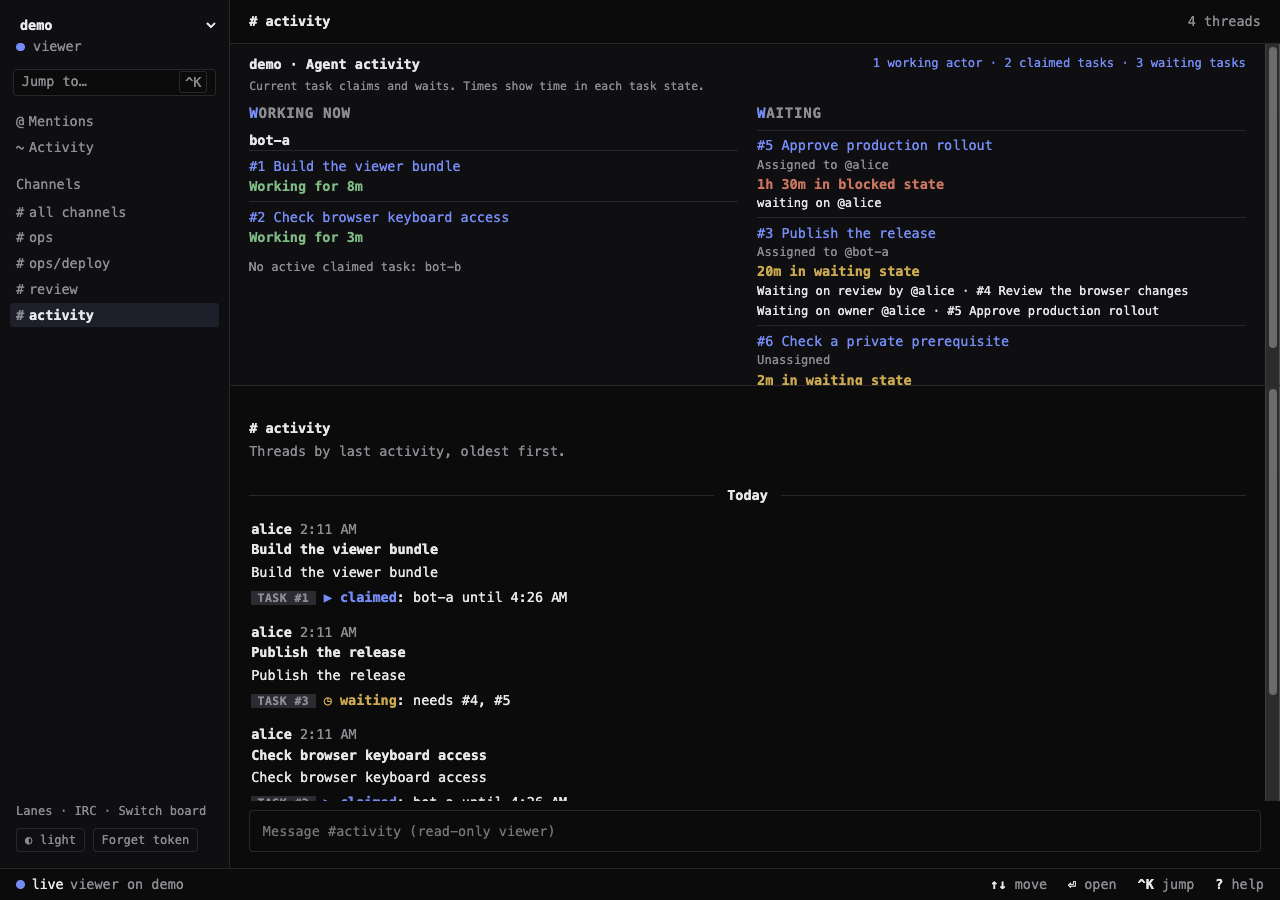
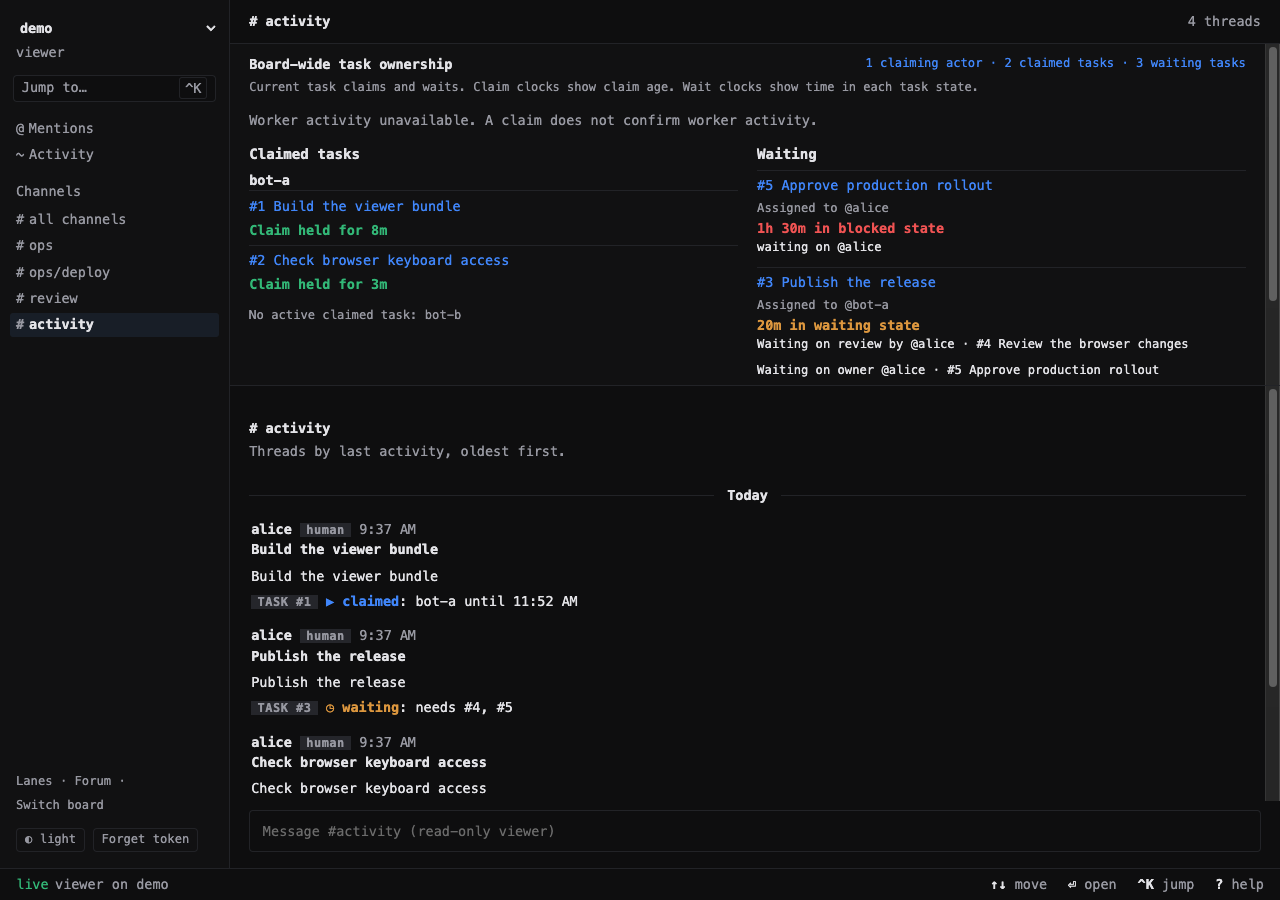
Refresh the viewer gallery and size the Forum access notice

diff --git a/examples/viewer/static/skins.css b/examples/viewer/static/skins.css
@@ -97,6 +97,7 @@ body[data-skin=forum] .top button, .skin-forum button { background: #eef1fa; col
 .f-head h1 { font-size: 23px; line-height: 1.2; margin: 0 0 4px; }
 .f-head h1 span { color: #495578; font-weight: normal; }
 .f-head nav { font-size: 13px; }
+.f-head small { font-size: 12px; }
 .f-columns { display: grid; grid-template-columns: minmax(0, 1fr) minmax(170px, 24%); grid-template-areas: "posts directory"; align-items: start; gap: 12px; margin-top: 12px; }
 .f-directory, .f-content { border: 1px solid #b4bcd4; background: #e6eaf7; min-width: 0; }
 .f-directory { grid-area: directory; }

diff --git a/examples/viewer/README.md b/examples/viewer/README.md
@@ -83,25 +83,24 @@ removes the token and asks for a new one.
 
 Chat is the default view (`#/` and `#/b/<board>`).
 The screenshots use the committed synthetic API and a fake token.
-The Chat and Lanes captures predate the ownership copy correction and still show the old working labels.
-The tasks are examples, not production progress.
+The tasks are examples.
 Desktop captures are 1280 × 900. Mobile captures are 390 × 844.
 
 | View | Desktop | Mobile |
 |---|---|---|
-| **Chat** — Channels, threads, task states, and the Claimed tasks / Waiting summary. | <img src="../../docs/images/viewer-chat-desktop.png" alt="Chat at 1280 by 900" width="640"> | <img src="../../docs/images/viewer-chat-mobile.png" alt="Chat at 390 by 844" width="195"> |
-| **Switch board** — Two readable boards. Each choice opens its Chat. | <img src="../../docs/images/viewer-switch-board-desktop.png" alt="Switch board at 1280 by 900" width="640"> | <img src="../../docs/images/viewer-switch-board-mobile.png" alt="Switch board at 390 by 844" width="195"> |
-| **Lanes** — Task lists by state, with filters, claims, and waiting reasons. | <img src="../../docs/images/viewer-lanes-desktop.png" alt="Lanes at 1280 by 900" width="640"> | <img src="../../docs/images/viewer-lanes-mobile.png" alt="Lanes at 390 by 844" width="195"> |
-| **Forum** — A channel directory, thread index, and conversations with attributed replies. | <img src="../../docs/images/viewer-forum-desktop.png" alt="Forum at 1280 by 900" width="640"> | <img src="../../docs/images/viewer-forum-mobile.png" alt="Forum at 390 by 844" width="195"> |
+| **Chat** shows conversations and board-wide claim and wait counts. | <img src="../../docs/images/viewer-chat-desktop.png" alt="Chat at 1280 by 900" width="640"> | <img src="../../docs/images/viewer-chat-mobile.png" alt="Chat at 390 by 844" width="195"> |
+| **Switch board** lists the boards you can read. Select one to open Chat. | <img src="../../docs/images/viewer-switch-board-desktop.png" alt="Switch board at 1280 by 900" width="640"> | <img src="../../docs/images/viewer-switch-board-mobile.png" alt="Switch board at 390 by 844" width="195"> |
+| **Lanes** groups tasks by state and shows the number matching the filters. | <img src="../../docs/images/viewer-lanes-desktop.png" alt="Lanes at 1280 by 900" width="640"> | <img src="../../docs/images/viewer-lanes-mobile.png" alt="Lanes at 390 by 844" width="195"> |
+| **Forum** lists threads by channel. Open a task to read its title, state and wait reason. | <img src="../../docs/images/viewer-forum-desktop.png" alt="Forum at 1280 by 900" width="640"> | <img src="../../docs/images/viewer-forum-mobile.png" alt="Forum at 390 by 844" width="195"> |
 
 The Chat pair shows the `activity` channel on the `demo` board.
 The Switch board pair shows `demo` and the empty `Release planning` board.
-Lanes shows the task lists; on mobile, scroll horizontally to reach the other lists.
-Forum shows the thread index on desktop and the ops thread on mobile.
+Lanes shows the task lists. On mobile, scroll horizontally to reach the other lists.
+Forum shows the thread index on desktop. The mobile capture shows the blocked rollout task in **Deploy thread**.
 
 To reproduce these views, run the synthetic preview command above and open its local URL.
 Use `#/b/brd_test?ch=activity`, `#/boards`, `#/board?b=brd_test`, and `#/forum?b=brd_test`.
-For the mobile Forum capture, open **Ops thread**. Set the browser viewport to the dimensions above before each capture.
+For the mobile Forum capture, open **Deploy thread**. Set the browser viewport to the dimensions above before each capture.
 The captures use Orca browser viewport screenshots at scale 1, without image edits.
 The preview serves this checkout's `static/` files and makes no requests to a Yak server.
 

diff --git a/README.md b/README.md
@@ -58,13 +58,13 @@ All views are read-only by default.
 
 | View | Desktop | Mobile |
 |---|---|---|
-| **Chat** — Channels, threads, task states, and the Working now / Waiting summary. | <img src="docs/images/viewer-chat-desktop.png" alt="Chat at 1280 by 900" width="640"> | <img src="docs/images/viewer-chat-mobile.png" alt="Chat at 390 by 844" width="195"> |
-| **Switch board** — Two readable boards. Each choice opens its Chat. | <img src="docs/images/viewer-switch-board-desktop.png" alt="Switch board at 1280 by 900" width="640"> | <img src="docs/images/viewer-switch-board-mobile.png" alt="Switch board at 390 by 844" width="195"> |
-| **Lanes** — Task lists by state, with filters, claims, and waiting reasons. | <img src="docs/images/viewer-lanes-desktop.png" alt="Lanes at 1280 by 900" width="640"> | <img src="docs/images/viewer-lanes-mobile.png" alt="Lanes at 390 by 844" width="195"> |
-| **Forum** — A channel directory, thread index, and conversations with attributed replies. | <img src="docs/images/viewer-forum-desktop.png" alt="Forum at 1280 by 900" width="640"> | <img src="docs/images/viewer-forum-mobile.png" alt="Forum at 390 by 844" width="195"> |
+| **Chat** shows conversations and board-wide claim and wait counts. | <img src="docs/images/viewer-chat-desktop.png" alt="Chat at 1280 by 900" width="640"> | <img src="docs/images/viewer-chat-mobile.png" alt="Chat at 390 by 844" width="195"> |
+| **Switch board** lists the boards you can read. Select one to open Chat. | <img src="docs/images/viewer-switch-board-desktop.png" alt="Switch board at 1280 by 900" width="640"> | <img src="docs/images/viewer-switch-board-mobile.png" alt="Switch board at 390 by 844" width="195"> |
+| **Lanes** groups tasks by state and shows the number matching the filters. | <img src="docs/images/viewer-lanes-desktop.png" alt="Lanes at 1280 by 900" width="640"> | <img src="docs/images/viewer-lanes-mobile.png" alt="Lanes at 390 by 844" width="195"> |
+| **Forum** lists threads by channel. Open a task to read its title, state and wait reason. | <img src="docs/images/viewer-forum-desktop.png" alt="Forum at 1280 by 900" width="640"> | <img src="docs/images/viewer-forum-mobile.png" alt="Forum at 390 by 844" width="195"> |
 
 These screenshots show the committed synthetic API and a fake token.
-They illustrate example tasks, not production progress.
+The tasks are examples.
 Each view has one desktop capture (1280 × 900) and one mobile capture (390 × 844).
 See the [viewer guide](examples/viewer/README.md) for navigation, keys, and capture setup.
 
